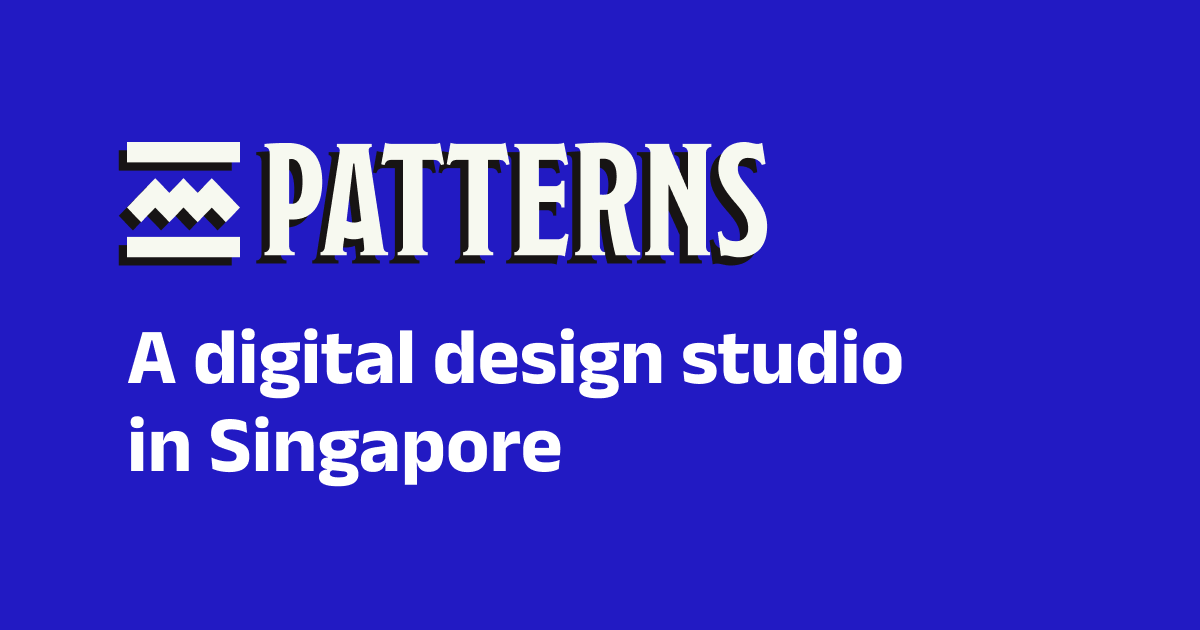
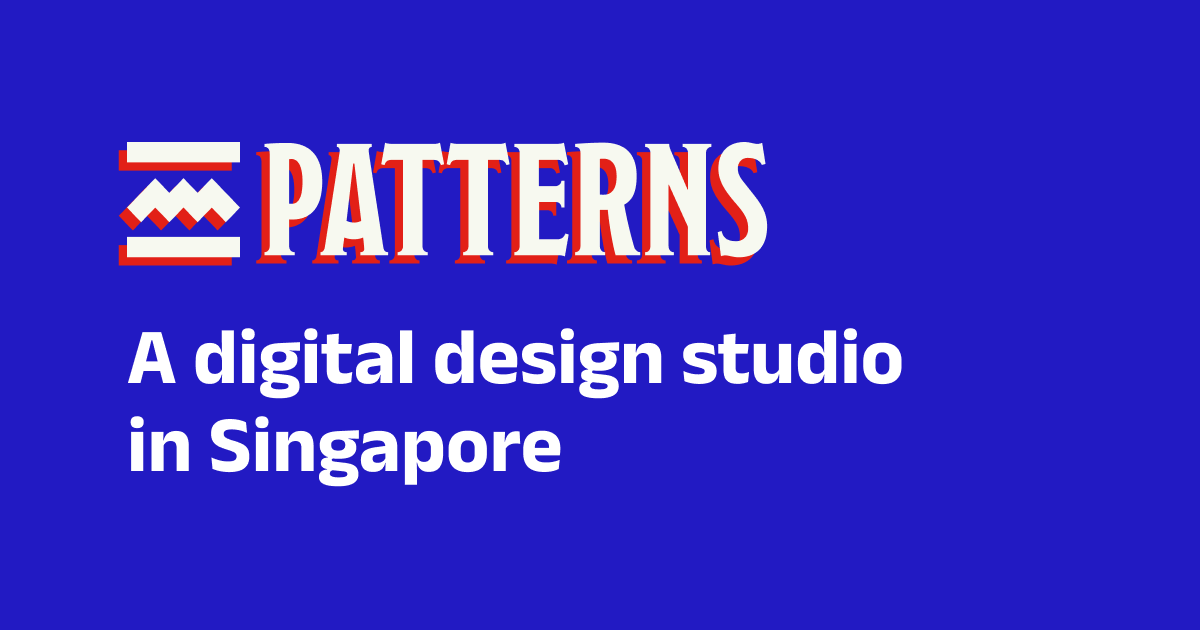
Unify typography scale and update brand assets
Set base font-size to 24px and weight to 500 across the page, bump
emphasis text (body default, accordion headers) to 900, and loosen
letter-spacing by 1% throughout. Also refresh og-image and favicons.

Changed region(s): [[0.0925, 0.2413, 0.6475, 0.4222], [0.0925, 0.3317, 0.185, 0.3619]]

diff --git a/index.html b/index.html
@@ -62,7 +62,7 @@
 </script>
 <link rel="preconnect" href="https://fonts.googleapis.com">
 <link rel="preconnect" href="https://fonts.gstatic.com" crossorigin>
-<link href="https://fonts.googleapis.com/css2?family=Anek+Latin:wght@300;400;500;600;700&display=swap" rel="stylesheet">
+<link href="https://fonts.googleapis.com/css2?family=Anek+Latin:wght@500;900&display=swap" rel="stylesheet">
 <style>
   :root{
     --bg:#2B18D7;
@@ -77,10 +77,10 @@
   body{
     color:var(--ink);
     font-family:'Anek Latin', -apple-system, BlinkMacSystemFont, 'Helvetica Neue', sans-serif;
-    font-weight:600;
+    font-weight:900;
     font-size:24px;
     line-height:1.4;
-    letter-spacing:-.01em;
+    letter-spacing:0;
     -webkit-font-smoothing:antialiased;
     -moz-osx-font-smoothing:grayscale;
     text-rendering:optimizeLegibility;
@@ -118,7 +118,7 @@
     font-weight:500;
     font-size:24px;
     line-height:1.3;
-    letter-spacing:-.015em;
+    letter-spacing:-.005em;
     color:var(--ink);
   }
   ul.plain{
@@ -130,9 +130,9 @@
     padding:10px 0;
     line-height:1.4;
     color:var(--ink);
-    font-weight:400;
+    font-weight:500;
     font-size:24px;
-    letter-spacing:-.01em;
+    letter-spacing:0;
   }
   ul.plain li::marker{color:var(--muted)}
 
@@ -150,20 +150,20 @@
   nav.quicklinks a{
     color:var(--ink);
     font-weight:500;
-    font-size:18px;
+    font-size:24px;
     text-decoration:underline;
     text-underline-offset:4px;
     text-decoration-thickness:1px;
     text-decoration-color:#ffffff66;
-    letter-spacing:-.005em;
+    letter-spacing:.005em;
   }
   nav.quicklinks a:hover{
     text-decoration-color:var(--accent);
     color:#fff;
   }
 
-  p{margin:0 0 32px;font-weight:400}
-  p.intro{font-weight:400}
+  p{margin:0 0 32px;font-weight:500}
+  p.intro{font-weight:500}
   p a, details li a{font-weight:500}
 
   a{
@@ -204,10 +204,10 @@
     justify-content:space-between;
     align-items:center;
     gap:20px;
-    font-weight:600;
+    font-weight:900;
     font-size:24px;
     line-height:1.3;
-    letter-spacing:-.015em;
+    letter-spacing:-.005em;
     color:var(--ink);
     padding:4px 0;
     user-select:none;
@@ -250,11 +250,11 @@
     padding:10px 0;
     line-height:1.4;
     color:var(--ink);
-    font-weight:400;
+    font-weight:500;
     font-size:24px;
-    letter-spacing:-.01em;
+    letter-spacing:0;
   }
-  details ul li a{font-weight:400}
+  details ul li a{font-weight:500}
 
   /* Quotes list */
   details ul.quotes{
@@ -271,20 +271,20 @@
     font-weight:500;
     font-size:24px;
     line-height:1.3;
-    letter-spacing:-.015em;
+    letter-spacing:-.005em;
     color:var(--ink);
   }
   details ul.quotes .by{
     display:block;
     margin-top:4px;
     font-style:italic;
-    font-weight:400;
+    font-weight:500;
     font-size:24px;
     line-height:1.35;
     color:var(--ink);
-    letter-spacing:-.01em;
+    letter-spacing:0;
   }
-  details ul.quotes .by a{font-weight:400}
+  details ul.quotes .by a{font-weight:500}
   details ul li::marker{color:var(--muted)}
 
   /* Smooth open */
@@ -296,16 +296,16 @@
     to{opacity:1;transform:none}
   }
 
-  .closing{font-weight:400}
+  .closing{font-weight:500}
   .closing a{font-weight:500}
 
   .site-foot{
     margin-top:64px;
-    font-size:16px;
+    font-size:24px;
     line-height:1.6;
-    font-weight:300;
+    font-weight:500;
     color:var(--muted);
-    letter-spacing:0;
+    letter-spacing:.01em;
   }
   .site-foot hr{margin:0 0 20px}
   .site-foot a{
